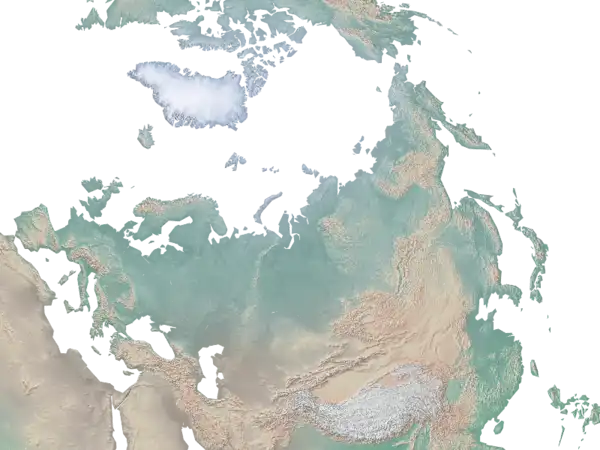
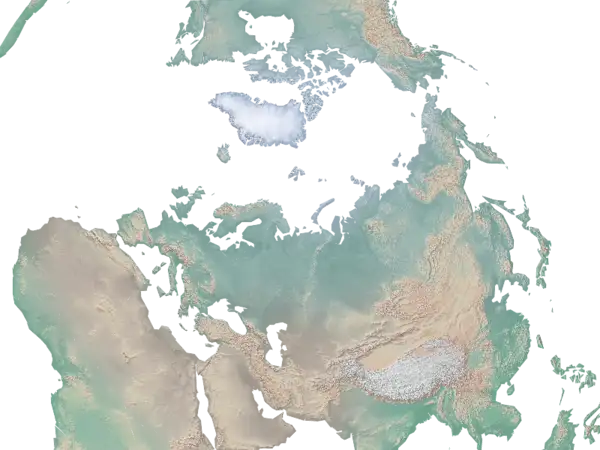
fix(maps): Europe recentred and out to the Canary Islands
The crop moved Europe the wrong way. Drop it; a new frame option,
`include`, adds the Canaries to the fit (it uses main bodies only), so
Europe is fitted with even margins and Spain's islands in view.

diff --git a/wp-content/themes/blankslate-child/includes/template/place-maps.php b/wp-content/themes/blankslate-child/includes/template/place-maps.php
@@ -23,9 +23,10 @@
  * `radius` the territories are fitted with equal margins round it; `radius`
  * (degrees) frames a circle instead, for continents too tall for a 4:3 frame;
  * `roll` turns the view (degrees, positive clockwise); `crop` keeps part of the
- * fitted view, [x0, y0, x1, y1] as fractions. Tuned by eye, 2026-11-24.
+ * fitted view, [x0, y0, x1, y1] as fractions; `include` adds [lon, lat] points
+ * to the fit. Tuned by eye, 2026-11-24.
  *
- * @return array<string, array{center?: array{0: float, 1: float}, radius?: float, roll?: float, crop?: array{0: float, 1: float, 2: float, 3: float}}>
+ * @return array<string, array{center?: array{0: float, 1: float}, radius?: float, roll?: float, crop?: array{0: float, 1: float, 2: float, 3: float}, include?: list<array{0: float, 1: float}>}>
  */
 function wt_continent_frames(): array {
 	return array(
@@ -43,9 +44,10 @@ function wt_continent_frames(): array {
 			'center' => array( 87.0, 31.0 ),
 			'roll'   => -10.0,
 		),
-		// Fitted, so Russia is drawn whole; the empty Atlantic is cropped off.
+		// Fitted, so Russia is drawn whole, and out to Spain's Canary Islands,
+		// which the fit (main bodies only) would leave off the west edge.
 		'europe'   => array(
-			'crop' => array( 0.1, 0.05, 1.0, 0.95 ),
+			'include' => array( array( -18.2, 27.6 ) ),
 		),
 		'oceania'  => array(
 			'center' => array( 166.0, -14.0 ),

diff --git a/docs/maps.md b/docs/maps.md
@@ -127,7 +127,7 @@ It exits with an error when anything but the informational list is non-empty. Ru
 - **Sets.** `wt_place_map_sets()` adds "Continent: Europe" with `view: continent`, a `frame` from `wt_continent_frames()`, and `groups` (record ID → its sub-region's position by slug). The view goes into the key (`wt_maps_set_key( $places, 'continent' )`), so a language whose map draws the same places never gets the continent's drawing.
 - **Build** (`render.mjs`). A set with `groups` wraps each group's shapes in a `<g>`; a filter outlines the union of each group, and the borders inside it are stroked in the fill, so they vanish. No rings: every place under the ring threshold is a dot. A group whose land covers under 15% of the area its places span (the convex hull of their parts' centres) is an island group and gets one halo: a narrow field grown from its islands, joined along a minimum spanning tree so it is one shape (Polynesia), drawn under the land with a thin edge. Measured 2026-11-24: island groups 0–11% (Micronesia, Polynesia, Melanesia, the Caribbean), all others 21% or more. A count of small places failed both ways: at continent scale much of the mainland is under the ring threshold, and Cuba isn't.
 - **Styles.** `.grp`, `.ge-flood`, `.gh-fill`, `.gh-edge` and `.dot` in `wt-maps.styl`. The light styles draw outlines, halo edges and dots in deep blue (`--brd-edge`) with a parchment halo; the dark ones keep the outline and use their primary (parchment) for dots and lavender (`--brd-secondary`) for the halo.
-- **Frames** (`frame` in sets.json, tuned by eye 2026-11-24). `center` fixes the view's centre; without `radius` the territories are fitted round it with equal margins (Oceania); `radius` frames a circle instead, for continents too tall for 4:3 (Africa, the Americas); `roll` turns the view (Asia, −10°, so Japan isn't pushed up the right edge); `crop` keeps part of the fitted view (Europe: the empty Atlantic margin). Europe is otherwise fitted, so Russia, continental in size, is drawn whole and the map reaches the Pacific.
+- **Frames** (`frame` in sets.json, tuned by eye 2026-11-24). `center` fixes the view's centre; without `radius` the territories are fitted round it with equal margins (Oceania); `radius` frames a circle instead, for continents too tall for 4:3 (Africa, the Americas); `roll` turns the view (Asia, −10°, so Japan isn't pushed up the right edge); `crop` keeps part of the fitted view (unused); `include` adds points to the fit (Europe: Spain's Canary Islands, which a fit on main bodies leaves off the west edge). Europe is otherwise fitted, so Russia, continental in size, is drawn whole and the map reaches the Pacific, with even margins left and right.
 - **Sizes.** Europe's SVG is over the 20 KB budget.
 - **Australia & New Zealand** is a sub-region of Oceania (moved 2026-11-24, a term edit per environment; see plan 3.2).
 

diff --git a/plan.md b/plan.md
@@ -333,7 +333,7 @@ Maps for the five continent pages.
 - A continent map draws every published territory in its sub-regions, all active.
 - One strong outline per sub-region; country borders inside it are hidden. **No tints**: sub-regions differ by outline only.
 - No rings. Every small territory shows as a dot. An island sub-region also gets one **halo**: a narrow field grown from its islands and joined along a minimum spanning tree, under the land, with a thin edge.
-- The frame is set per continent (centre, radius, roll, crop), tuned by eye so margins are even; Europe's is fitted, so Russia is drawn whole (2026-11-24). The set key stays the hash of the record IDs; frame, groups and halos travel as set options, like `globe`.
+- The frame is set per continent (centre, radius, roll, crop, include), tuned by eye so margins are even; Europe's is fitted, so Russia is drawn whole, and includes the Canary Islands (2026-11-24). The set key stays the hash of the record IDs; frame, groups and halos travel as set options, like `globe`.
 
 **Example cases**
 
